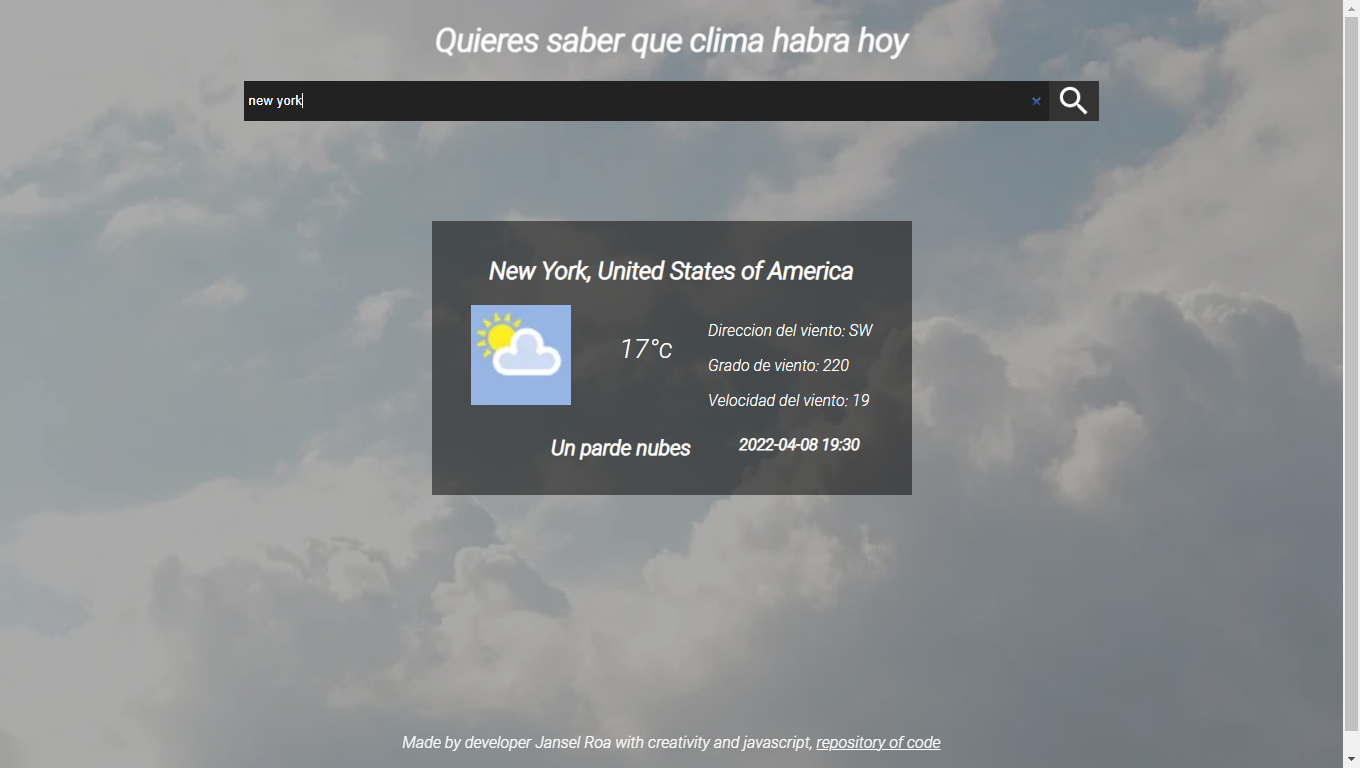
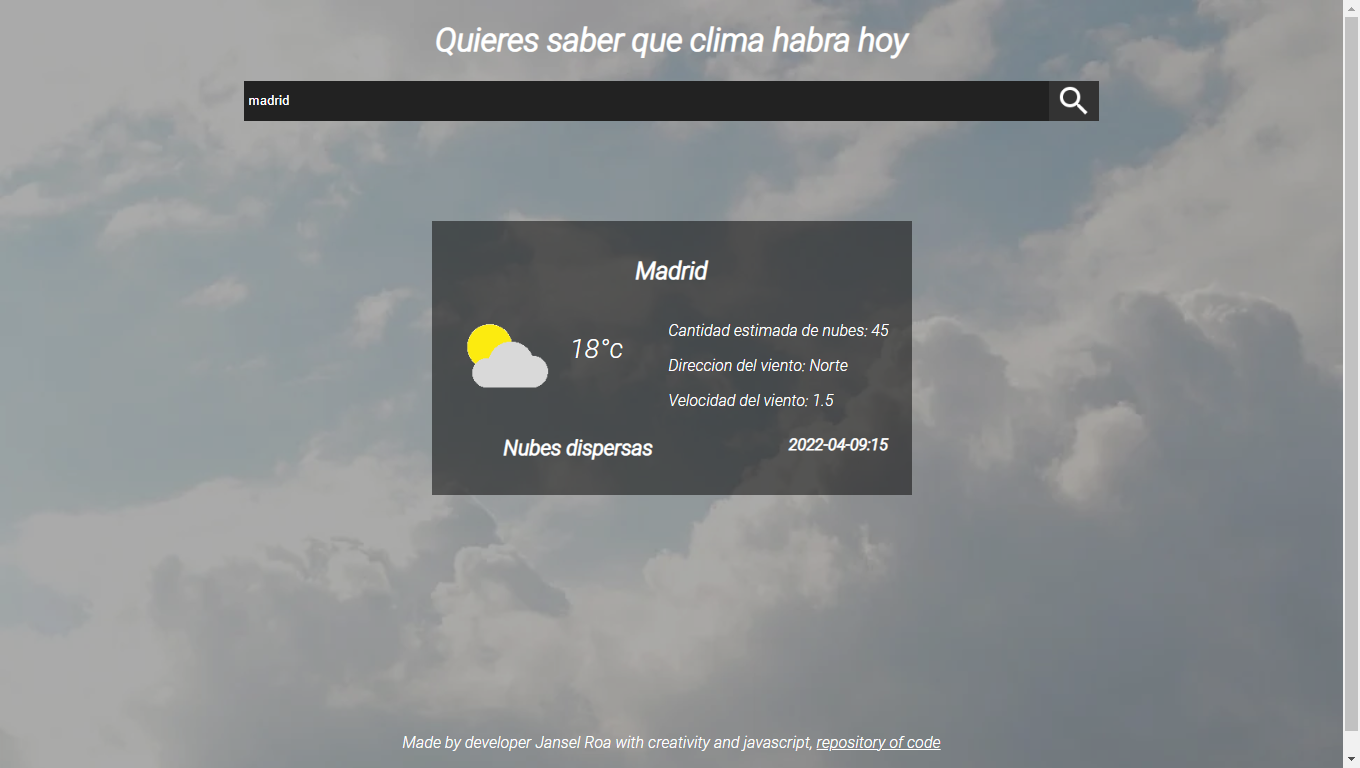
first commit

diff --git a/index.js b/index.js
@@ -1,54 +1,59 @@
 const input = document.querySelector("input")
 const title = document.querySelector('.title')
 const content = document.querySelector('.content')
+const btn = document.querySelector('button')
 const error = document.querySelector('.error')
 const texts = ["Quieres saber que clima habra hoy","Ve el clima de cualquier cuidad","Hoy estara soleado?"]
 setInterval(()=>{
     title.classList.toggle('animation-text')
     title.textContent= texts[Math.floor(Math.random() * (3 - 0)) + 0]
 },5000)
-const url = "http://api.weatherstack.com/current"
-const api_key = '2bad2d4649e64b34d3416d70d327c255'
+const url = "https://api.weatherbit.io/v2.0/current"
+const api_key = '973a5a5f6ace4a21b2b30ca14dd5ca07'
 
 const background = {
-    "Sunny":"url('./assets/sunny.webp')",
-    "Partly cloudy":"url('./assets/clouds.webp')",
-    "Clear":"url('./assets/clear.jpg')",
-    "Moderate rain":"url('./assets/rain.jpg')",
-    "Light Rain":"url('./assets/rain.jpg')",
-    "Light rain showe":"url('./assets/rain.jpg')"
+    "Cielo despejado":"sunny.webp",
+    "Nubes dispersas":"clouds.webp",
+    "Cubierto":"clouds.webp",
+    "Clear":"clear.jpg",
+    "Poco nuboso":"clouds.webp",
+    "Nuboso":"nuboso.jpg",
+    "Poco nuboso":"nuboso.jpg",
+    "Lluvia":"lluvia.webp",
+    "Lluvia ligera":"rain.jpg",
 }
-const weather_descriptions = {
-    "Sunny":"Dia soleado",
-    "Partly cloudy":"Un parde nubes",
-    "Clear":"Cielo claro",
-    "Patchy rain possible":"Con posibilidad de lluvia",
-    "Moderate rain":"lluvia moderada",
-    "Light rain showe":"Lluvia ligera"
-}
-input.addEventListener('keydown',(e)=>{
-    if(e.key==="Enter"){
-        fetch(`${url}?access_key=${api_key}&query=${input.value}`)
+const getClimate = ()=>{
+    fetch(`${url}?key=${api_key}&city=${input.value}&lang=es`)
         .then(data=>data.json())
         .then(data=>{
-            document.body.style.backgroundImage=background[data.current.weather_descriptions[0]]
+            data=data.data[0]
+            error.style.display="none"
+            document.body.style.backgroundImage=`url('./assets/${background[data.weather.description]}')`
             document.body.style.backgroundColor = "rgba(17, 17, 17, 0.356)"
             content.innerHTML=`
-                <h2>${data.request.query}</h2>
+                <h2>${data.city_name}</h2>
                 <div>
-                <img src=${data.current.weather_icons[0]}>
-                <p class="temp">${data.current.temperature}°c</p>
-                <p class="description">${weather_descriptions[data.current.weather_descriptions[0]]}</p>
-                <p class="time">${data.location.localtime}</p>
+                <img src='https://www.weatherbit.io/static/img/icons/${data.weather.icon}.png'>
+                <p class="temp">${data.temp}°c</p>
+                <p class="time">${data.datetime}</p>
+                <p class="description">${data.weather.description}</p>
                 <div class="wind">
-                <p>Direccion del viento: ${data.current.wind_dir}</p>
-                <p>Grado de viento: ${data.current.wind_degree}</p>
-                <p>Velocidad del viento: ${data.current.wind_speed}</p>
+                <p>Cantidad estimada de nubes: ${data.clouds}</p>
+                <p>Direccion del viento: ${data.wind_cdir_full}</p>
+                <p>Velocidad del viento: ${data.wind_spd}</p>
                 </div>
                 </div>
                 `
         }).catch(err=>{
+            error.style.display="inline"
             error.textContent=`No se a encontrado "${input.value}"`
         })
+}
+input.addEventListener('keydown',(e)=>{
+    if(e.key==="Enter"){
+        getClimate()
     }
+})
+btn.addEventListener('click',()=>{
+    getClimate()
 })

diff --git a/styles.css b/styles.css
@@ -74,7 +74,7 @@ button img{
 }
 .temp{
     font-size: 1.7rem;
-    margin-right: 30px;
+    margin-right: 150px;
 }
 .description,.time{
     display: block;
@@ -97,5 +97,5 @@ footer{
 .error{
     display: inline;
     margin-top: 200px;
-    text-align: center;
+    font-size: 1.5rem;
 }

diff --git a/README.md b/README.md
@@ -1,6 +1,6 @@
 # weather app
 ## Preview
-<img src="./preview.png">
+<img src="./preview1.png">
 <img src="./preview2.png">
 
 ## Download
@@ -8,3 +8,5 @@
 git clone https://github.com/janselroa/weather-app.git
 ```
 then open the index.html file and you can use the app
+watch live on https://wondrous-cheesecake-e6a2f6.netlify.app/
+
